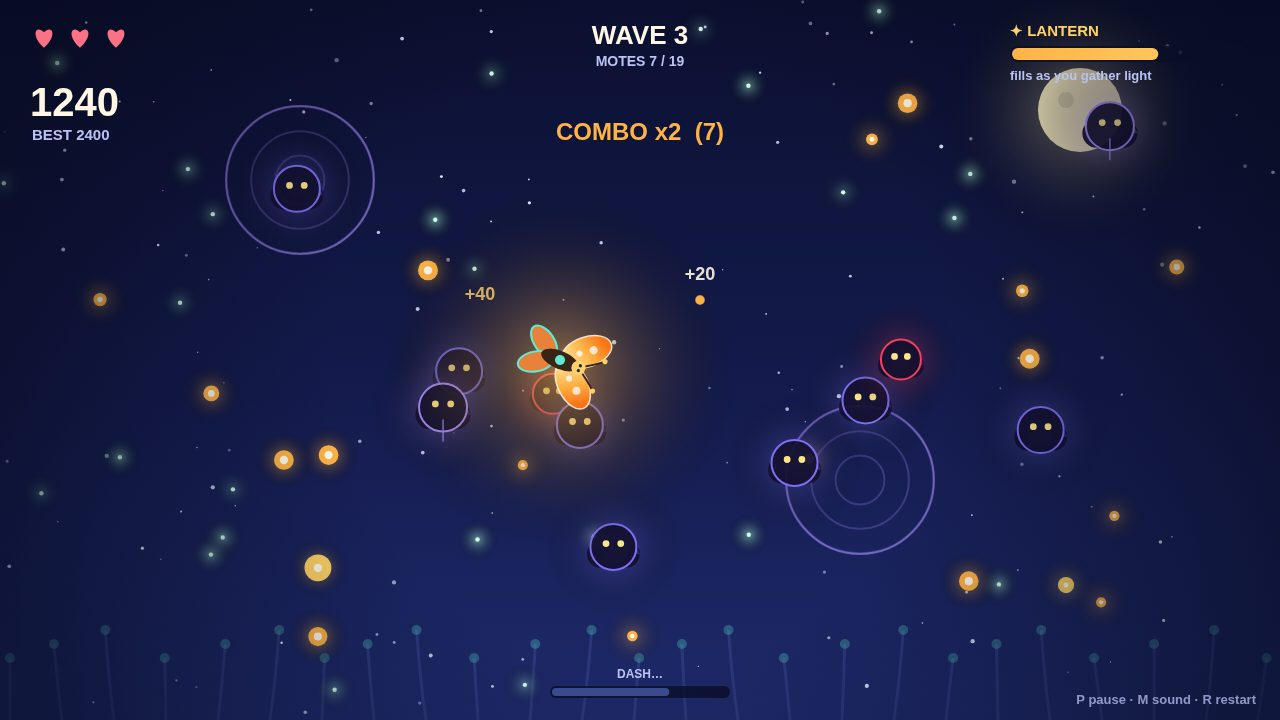
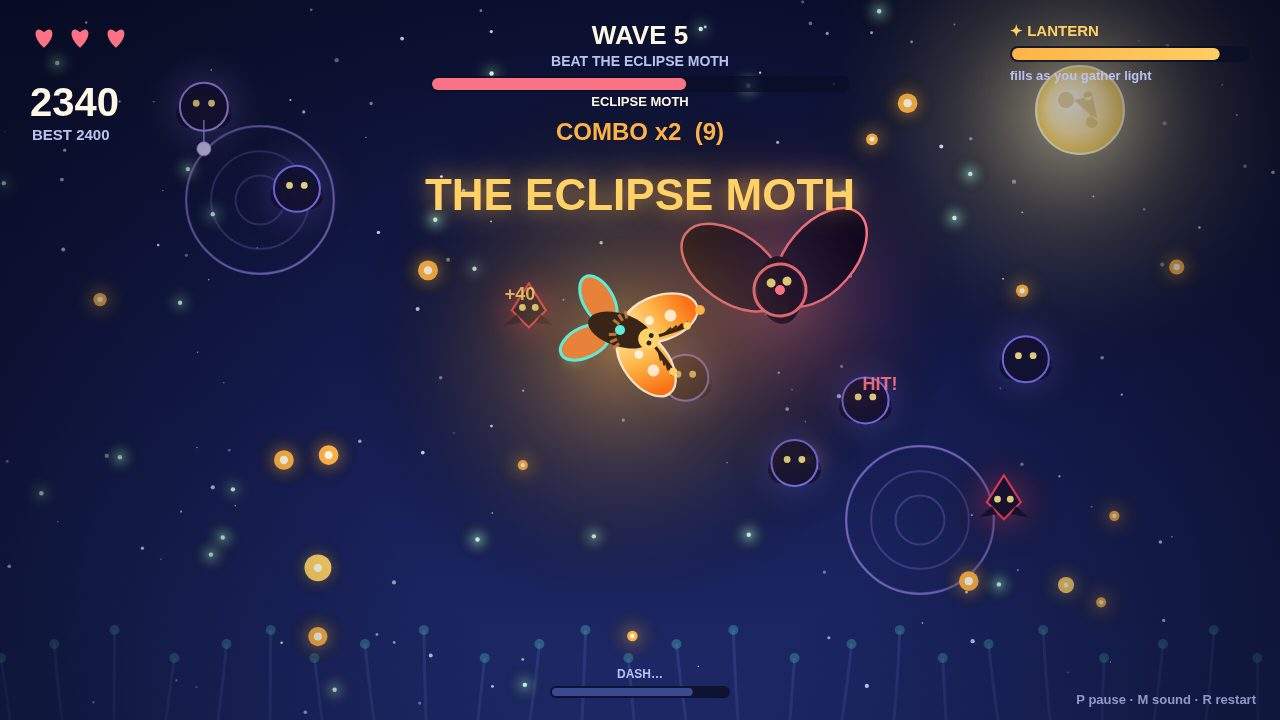
Round 2 polish: bigger moth with feathery antennae and folded wings, glowing gold moon, distinct wisp silhouettes, wave 5 boss-fight play shot, make.fun badges + repo About

diff --git a/game/src/render.js b/game/src/render.js
@@ -70,29 +70,63 @@ function drawWisp(ctx, wisp) {
   ctx.save();
   ctx.translate(wisp.x + wob, wisp.y);
   drawGlowOrb(ctx, 0, 0, wisp.r, color, 0.4);
-  // A ragged shadow body: three overlapping blobs and two pale eyes.
+  // Each kind has its own silhouette, so variety reads at a glance:
+  // Drifter is a soft round blob, Dart a sharp angular kite,
+  // Weaver a round body carrying a pale web sac.
   ctx.fillStyle = 'rgba(20,16,48,0.92)';
-  ctx.beginPath();
-  ctx.arc(0, 0, wisp.r, 0, Math.PI * 2);
-  ctx.arc(-wisp.r * 0.55, wisp.r * 0.3, wisp.r * 0.6, 0, Math.PI * 2);
-  ctx.arc(wisp.r * 0.55, wisp.r * 0.3, wisp.r * 0.6, 0, Math.PI * 2);
-  ctx.fill();
   ctx.strokeStyle = color;
   ctx.lineWidth = 2;
-  ctx.beginPath();
-  ctx.arc(0, 0, wisp.r, 0, Math.PI * 2);
-  ctx.stroke();
+  if (wisp.kind === 'dart') {
+    ctx.beginPath();
+    ctx.moveTo(0, -wisp.r * 1.35);
+    ctx.lineTo(wisp.r * 0.85, 0);
+    ctx.lineTo(0, wisp.r * 0.85);
+    ctx.lineTo(-wisp.r * 0.85, 0);
+    ctx.closePath();
+    ctx.fill();
+    ctx.stroke();
+    // Swept-back fins on the dart's flanks.
+    ctx.beginPath();
+    ctx.moveTo(-wisp.r * 0.6, wisp.r * 0.2);
+    ctx.lineTo(-wisp.r * 1.25, wisp.r * 0.75);
+    ctx.lineTo(-wisp.r * 0.35, wisp.r * 0.6);
+    ctx.closePath();
+    ctx.moveTo(wisp.r * 0.6, wisp.r * 0.2);
+    ctx.lineTo(wisp.r * 1.25, wisp.r * 0.75);
+    ctx.lineTo(wisp.r * 0.35, wisp.r * 0.6);
+    ctx.closePath();
+    ctx.fill();
+  } else {
+    ctx.beginPath();
+    ctx.arc(0, 0, wisp.r, 0, Math.PI * 2);
+    ctx.arc(-wisp.r * 0.55, wisp.r * 0.3, wisp.r * 0.6, 0, Math.PI * 2);
+    ctx.arc(wisp.r * 0.55, wisp.r * 0.3, wisp.r * 0.6, 0, Math.PI * 2);
+    ctx.fill();
+    ctx.beginPath();
+    ctx.arc(0, 0, wisp.r, 0, Math.PI * 2);
+    ctx.stroke();
+  }
   ctx.fillStyle = '#FDE68A';
   ctx.beginPath();
   ctx.arc(-wisp.r * 0.32, -wisp.r * 0.15, 3.4, 0, Math.PI * 2);
   ctx.arc(wisp.r * 0.32, -wisp.r * 0.15, 3.4, 0, Math.PI * 2);
   ctx.fill();
   if (wisp.kind === 'weaver') {
-    ctx.strokeStyle = 'rgba(167,139,250,0.8)';
+    // The web sac: a pale sac on a thread below the body.
+    ctx.strokeStyle = 'rgba(167,139,250,0.9)';
     ctx.lineWidth = 1.5;
     ctx.beginPath();
-    ctx.moveTo(0, wisp.r * 0.5);
-    ctx.lineTo(0, wisp.r + 10);
+    ctx.moveTo(0, wisp.r * 0.55);
+    ctx.lineTo(0, wisp.r + 12);
+    ctx.stroke();
+    ctx.fillStyle = 'rgba(221,214,254,0.95)';
+    ctx.beginPath();
+    ctx.arc(0, wisp.r + 18, 7, 0, Math.PI * 2);
+    ctx.fill();
+    ctx.strokeStyle = 'rgba(167,139,250,0.8)';
+    ctx.lineWidth = 1;
+    ctx.beginPath();
+    ctx.arc(0, wisp.r + 18, 7, 0, Math.PI * 2);
     ctx.stroke();
   }
   ctx.restore();
@@ -140,8 +174,15 @@ function drawBoss(ctx, boss, time) {
 
 function drawMoth(ctx, moth, time, dimmed) {
   const flap = Math.sin(moth.flap) * 0.55;
+  // Wings fold at rest and spread in flight: a resting moth reads as a
+  // moth, not a butterfly, and the fold shows in every menu shot.
+  const speed = Math.hypot(moth.vx || 0, moth.vy || 0);
+  const fold = Math.max(0.2, Math.min(0.8, 1 - speed / 320));
   ctx.save();
   ctx.translate(moth.x, moth.y);
+  // The moth is drawn ~1.5x its collision radius: the hitbox stays
+  // forgiving while the sprite reads clearly at 300px.
+  ctx.scale(1.5, 1.5);
   if (moth.invuln > 0 && Math.floor(time * 14) % 2 === 0 && !dimmed) {
     ctx.globalAlpha = 0.35;
   }
@@ -152,7 +193,7 @@ function drawMoth(ctx, moth, time, dimmed) {
   for (const side of [-1, 1]) {
     ctx.save();
     ctx.scale(side, 1);
-    ctx.rotate(-0.35 - flap * 0.45);
+    ctx.rotate(-0.35 - flap * 0.45 - fold * 0.5);
     const g = ctx.createLinearGradient(0, 0, 46, -10);
     g.addColorStop(0, '#FFE9A8');
     g.addColorStop(0.55, '#FFB347');
@@ -171,10 +212,10 @@ function drawMoth(ctx, moth, time, dimmed) {
     ctx.arc(18, -10, 3, 0, Math.PI * 2);
     ctx.fill();
     ctx.restore();
-    // Lower wing, teal-edged.
+    // Lower wing, teal-edged, tucked in when the wings fold.
     ctx.save();
     ctx.scale(side, 1);
-    ctx.rotate(0.5 + flap * 0.35);
+    ctx.rotate(0.5 + flap * 0.35 - fold * 0.9);
     ctx.fillStyle = '#E8823A';
     ctx.beginPath();
     ctx.ellipse(20, 14, 18, 10, 0.5, 0, Math.PI * 2);
@@ -184,11 +225,21 @@ function drawMoth(ctx, moth, time, dimmed) {
     ctx.stroke();
     ctx.restore();
   }
-  // Body and head.
+  // Fuzzy body: a wide thorax with short fur strokes on both flanks.
   ctx.fillStyle = '#3A2417';
   ctx.beginPath();
-  ctx.ellipse(0, 0, 9, 20, 0, 0, Math.PI * 2);
+  ctx.ellipse(0, 0, 11, 22, 0, 0, Math.PI * 2);
   ctx.fill();
+  ctx.strokeStyle = 'rgba(190,120,60,0.95)';
+  ctx.lineWidth = 2;
+  for (let i = -3; i <= 3; i++) {
+    if (i === 0) continue;
+    const a = (i / 3) * 1.05;
+    ctx.beginPath();
+    ctx.moveTo(Math.sin(a) * 10, -6 + Math.cos(a) * 8);
+    ctx.lineTo(Math.sin(a) * 15, -6 + Math.cos(a) * 13);
+    ctx.stroke();
+  }
   ctx.fillStyle = '#FFD166';
   ctx.beginPath();
   ctx.arc(0, -20, 7, 0, Math.PI * 2);
@@ -198,15 +249,30 @@ function drawMoth(ctx, moth, time, dimmed) {
   ctx.arc(-2.6, -21, 1.6, 0, Math.PI * 2);
   ctx.arc(2.6, -21, 1.6, 0, Math.PI * 2);
   ctx.fill();
-  // Antennae with glowing tips.
-  ctx.strokeStyle = '#3A2417';
-  ctx.lineWidth = 2;
-  ctx.beginPath();
-  ctx.moveTo(-4, -26);
-  ctx.quadraticCurveTo(-12, -38, -16, -42);
-  ctx.moveTo(4, -26);
-  ctx.quadraticCurveTo(12, -38, 16, -42);
-  ctx.stroke();
+  // Feathery antennae: a shaft with short barbs, the clearest
+  // moth-vs-butterfly tell at small size.
+  for (const side of [-1, 1]) {
+    const bx = side * 4;
+    const by = -26;
+    const tx = side * 16;
+    const ty = -42;
+    ctx.strokeStyle = '#3A2417';
+    ctx.lineWidth = 2;
+    ctx.beginPath();
+    ctx.moveTo(bx, by);
+    ctx.quadraticCurveTo(side * 12, -38, tx, ty);
+    ctx.stroke();
+    ctx.lineWidth = 1.5;
+    for (let i = 1; i <= 4; i++) {
+      const t = i / 5;
+      const px = bx + (tx - bx) * t;
+      const py = by + (ty - by) * t;
+      ctx.beginPath();
+      ctx.moveTo(px, py);
+      ctx.lineTo(px + side * 5, py - 3);
+      ctx.stroke();
+    }
+  }
   ctx.fillStyle = PALETTE.gold;
   ctx.beginPath();
   ctx.arc(-16, -42, 2.6, 0, Math.PI * 2);
@@ -224,16 +290,25 @@ function drawGarden(ctx, world) {
   ctx.fillStyle = sky;
   ctx.fillRect(0, 0, VIEW_W, VIEW_H);
 
-  // A low moon, half-hidden: the garden's one big light.
-  drawGlowOrb(ctx, 1080, 110, 46, '#FFE9A8', 0.5);
-  ctx.fillStyle = '#FFF3C4';
+  // A glowing pale-gold moon with a soft halo: the garden's big light.
+  drawGlowOrb(ctx, 1080, 110, 92, '#FFE9A8', 0.65);
+  drawGlowOrb(ctx, 1080, 110, 52, '#FFF3C4', 0.5);
+  const moon = ctx.createRadialGradient(1070, 100, 6, 1080, 110, 46);
+  moon.addColorStop(0, '#FFFBEA');
+  moon.addColorStop(0.55, '#FFE9A8');
+  moon.addColorStop(1, '#F2C94C');
+  ctx.fillStyle = moon;
   ctx.beginPath();
-  ctx.arc(1080, 110, 42, 0, Math.PI * 2);
+  ctx.arc(1080, 110, 44, 0, Math.PI * 2);
   ctx.fill();
-  ctx.fillStyle = 'rgba(180,170,140,0.35)';
+  ctx.strokeStyle = 'rgba(255,251,234,0.85)';
+  ctx.lineWidth = 2;
+  ctx.stroke();
+  ctx.fillStyle = 'rgba(214,164,64,0.4)';
   ctx.beginPath();
   ctx.arc(1066, 100, 8, 0, Math.PI * 2);
   ctx.arc(1092, 122, 6, 0, Math.PI * 2);
+  ctx.arc(1088, 96, 4.5, 0, Math.PI * 2);
   ctx.fill();
 
   for (const s of stars) {

diff --git a/game/src/shots.js b/game/src/shots.js
@@ -32,34 +32,42 @@ function stageStart(world) {
   return world;
 }
 
-// Dense mid-game: wave 3, a combo running, the lantern two-thirds
-// full, wisps of every kind closing in, a web on the field.
+// The wave 5 boss fight: the Eclipse Moth with a visible HP bar, the
+// player moth dashing through it, the lantern nearly full, motes,
+// wisps of every kind and webs still on the field — depth in one shot.
 function stagePlay(world) {
   startRun(world);
-  startWave(world, 3);
-  world.time = 4.5;
-  world.score = 1240;
+  startWave(world, 5);
+  world.time = 6.2;
+  world.score = 2340;
   world.best = 2400;
-  world.combo = 7;
+  world.combo = 9;
   world.comboTimer = 2.0;
-  world.lantern = 62;
-  world.waveCollected = 7;
-  world.banner = '';
-  world.bannerTimer = 0;
-  world.moth.x = 560;
-  world.moth.y = 360;
-  world.moth.angle = 0.4;
-  world.moth.dashTime = 0.1;
-  world.moth.dashCd = 0.5;
-  scatterMotes(world, 10);
-  scatterWisps(world, ['drifter', 'drifter', 'drifter', 'dart', 'dart', 'weaver', 'weaver', 'drifter']);
-  world.webs.push({ x: 860, y: 480, r: 74, life: 5 });
-  world.webs.push({ x: 300, y: 180, r: 74, life: 5 });
-  burst(world, 560, 360, 16, '#5EEAD4');
-  burst(world, 700, 300, 10, '#FFB347');
+  world.lantern = 88;
+  world.hearts = 3;
+  // The boss has already taken damage from the moth's dash.
+  world.boss.hp = 11;
+  world.boss.x = 780;
+  world.boss.y = 290;
+  world.banner = 'THE ECLIPSE MOTH';
+  world.bannerTimer = 1.4;
+  world.moth.x = 620;
+  world.moth.y = 330;
+  world.moth.angle = 0.3;
+  world.moth.vx = 700;
+  world.moth.vy = -160;
+  world.moth.dashTime = 0.12;
+  world.moth.dashCd = 0.3;
+  scatterMotes(world, 8);
+  scatterWisps(world, ['drifter', 'drifter', 'dart', 'dart', 'weaver']);
+  world.webs.push({ x: 920, y: 520, r: 74, life: 5 });
+  world.webs.push({ x: 260, y: 200, r: 74, life: 5 });
+  burst(world, 620, 330, 18, '#5EEAD4');
+  burst(world, 780, 290, 16, '#FB7185');
+  burst(world, 700, 310, 10, '#FFB347');
   for (const p of world.particles) p.life = 0.6;
-  world.floaters.push({ x: 700, y: 280, text: '+20', color: '#FFF7E6', life: 0.9 });
-  world.floaters.push({ x: 480, y: 300, text: '+40', color: '#FFD166', life: 0.8 });
+  world.floaters.push({ x: 880, y: 390, text: 'HIT!', color: '#FB7185', life: 0.9 });
+  world.floaters.push({ x: 520, y: 300, text: '+40', color: '#FFD166', life: 0.8 });
   return world;
 }
 

diff --git a/game/src/main.js b/game/src/main.js
@@ -28,6 +28,11 @@ if (shotName) {
   world = createWorld(seed);
 }
 
+// A read-only handle for live verification harnesses: play-tests read
+// score, hearts, wave and boss health through it. It never drives the
+// game — the loop above is the only thing that changes the world.
+window.__mothlight = world;
+
 const input = createInput(canvas);
 
 function pressStart() {

diff --git a/README.md b/README.md
@@ -1,6 +1,10 @@
 # Mothlight — Night of the Lanterns
 
-A complete 2D canvas arcade game for make.fun's best-game-01. You are a
+[![make.fun · best-game-01](https://make.fun/badge/best-game-01.svg)](https://make.fun/bounty/best-game-01?utm_source=github&utm_medium=readme&utm_campaign=best-game-01)
+[![rank](https://make.fun/badge/best-game-01/bonjoves444-ux/best-game-01-entry/rank.svg)](https://make.fun/bounty/best-game-01/leaderboard?utm_source=github&utm_medium=readme&utm_campaign=best-game-01)
+[![reward](https://make.fun/badge/best-game-01/bonjoves444-ux/best-game-01-entry/reward.svg)](https://make.fun/bounty/best-game-01?utm_source=github&utm_medium=readme&utm_campaign=best-game-01)
+
+A complete 2D canvas arcade game for [make.fun's best-game-01](https://make.fun/bounty/best-game-01). You are a
 lantern moth in a deep-indigo night garden: gather glowing light motes
 to fill your lantern, chain combos, dodge shadow wisps, and dash through
 the Eclipse Moth — the boss that arrives every fifth wave.
@@ -33,8 +37,8 @@ WebAudio synth for sound, seeded RNG (`?seed=`).
 ## Screenshots
 
 The four shots in `shots.json` are staged deterministically with
-`?shot=<name>&seed=1` — title over a live garden, mid-game wave 3,
-the blessing choice, and the game-over screen. Each scene freezes
+`?shot=<name>&seed=1` — title over a live garden, the wave 5 boss
+fight, the blessing choice, and the game-over screen. Each scene freezes
 after staging and sets `window.__shotReady` for capture.
 
 ## Files
